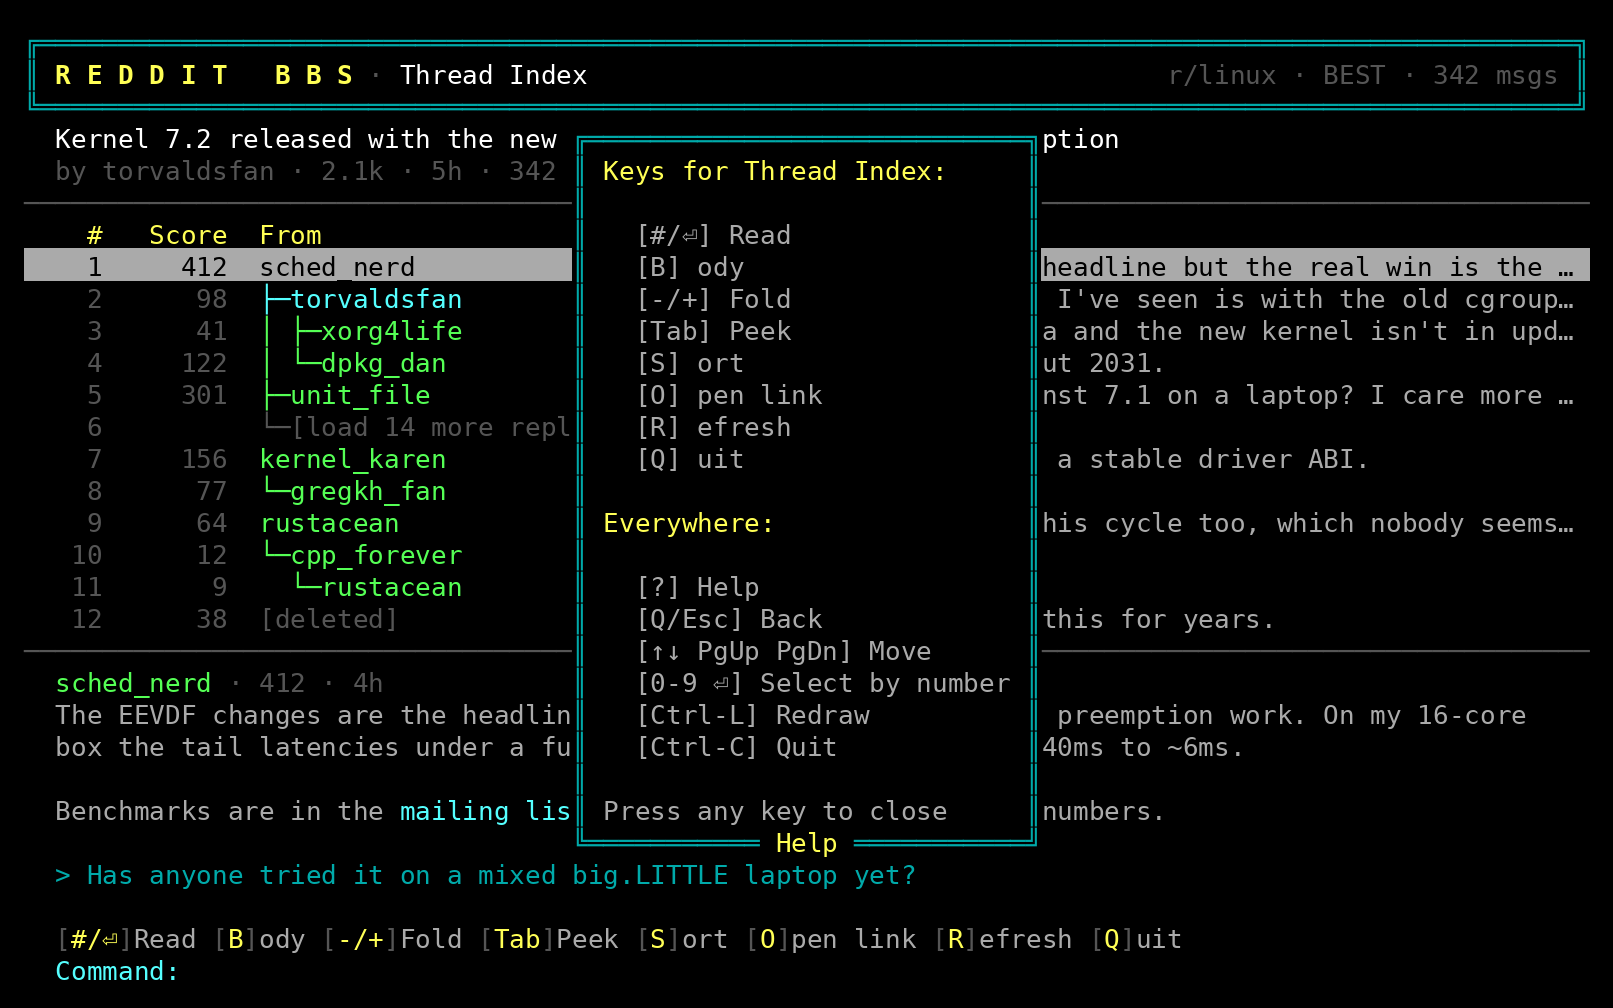
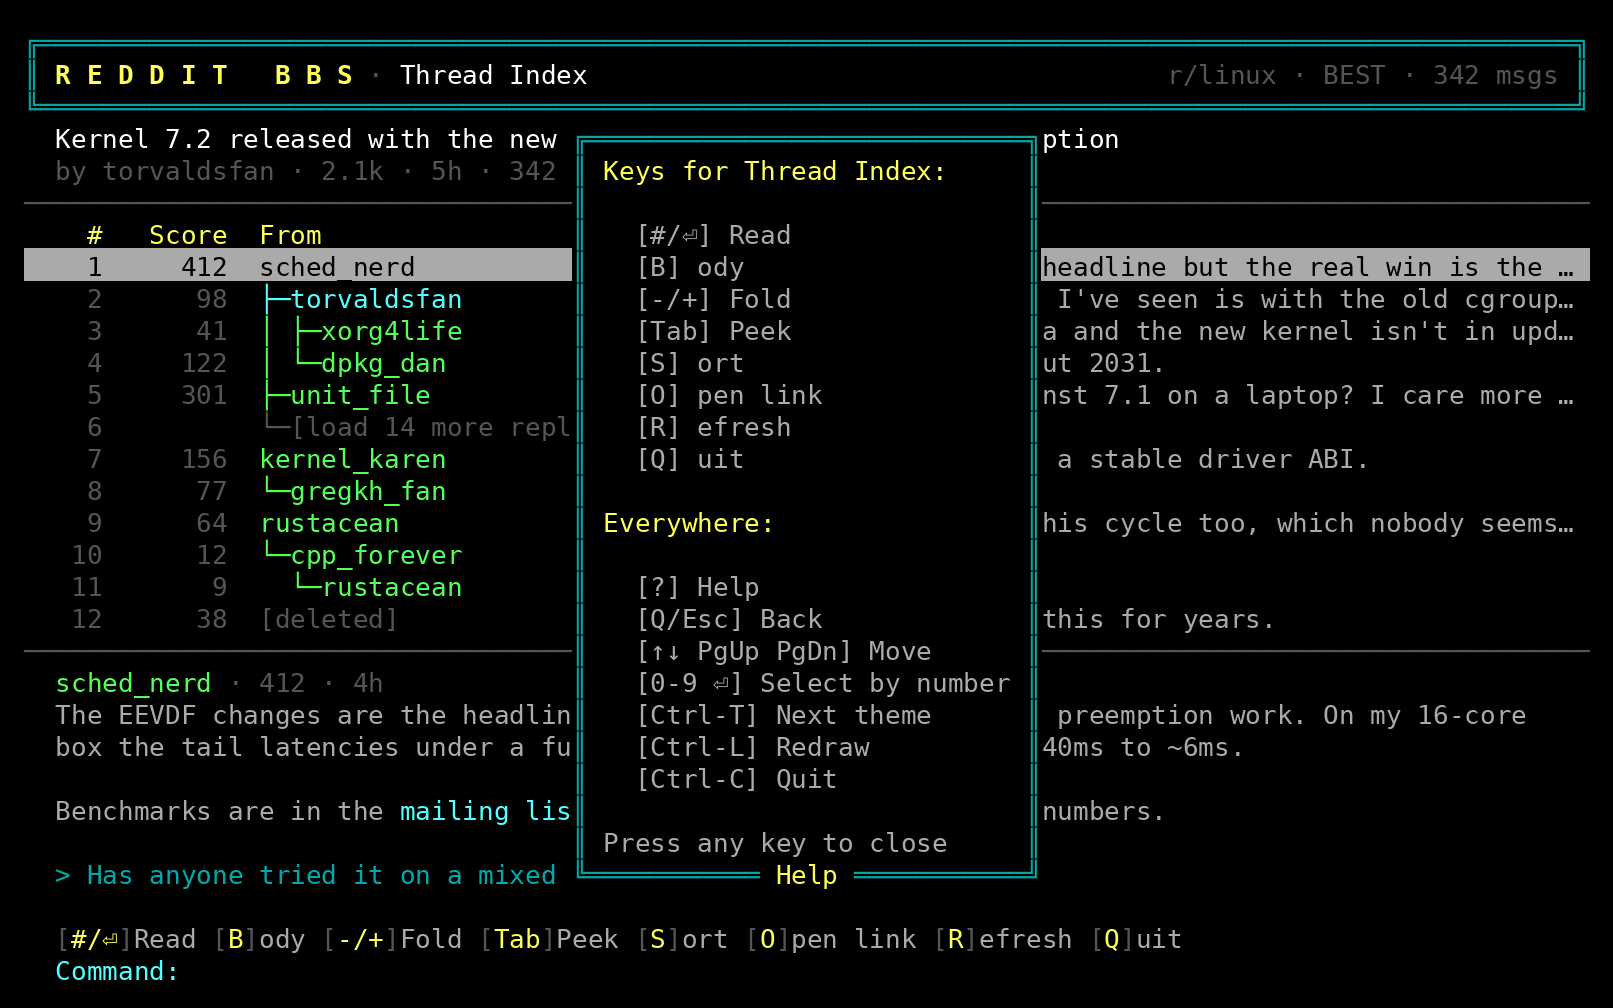
Capture each theme in the screenshots and document theming in the README

Changed region(s): [[0.341, 0.7073, 0.651, 0.8919]]

diff --git a/internal/ui/screens/mockup_test.go b/internal/ui/screens/mockup_test.go
@@ -14,6 +14,7 @@ import (
 	"github.com/markalexwatson/redditbbs/internal/reddit/redditest"
 	"github.com/markalexwatson/redditbbs/internal/term"
 	"github.com/markalexwatson/redditbbs/internal/textfmt"
+	"github.com/markalexwatson/redditbbs/internal/theme"
 	"github.com/markalexwatson/redditbbs/internal/ui"
 )
 
@@ -75,6 +76,22 @@ func TestRenderMockups(t *testing.T) {
 	press(app, term.R('?'))
 	save("06-help")
 	press(app, term.R(' '))
+
+	// The thread index under every other built-in theme.
+	for _, name := range theme.Names() {
+		if name == "classic" {
+			continue
+		}
+		if err := theme.Set(name); err != nil {
+			t.Fatal(err)
+		}
+		app.Draw()
+		save("theme-" + name)
+	}
+	if err := theme.Set("classic"); err != nil {
+		t.Fatal(err)
+	}
+	app.Draw()
 
 	press(app, term.K(term.KeyEnter))
 	save("07-reader")

diff --git a/README.md b/README.md
@@ -18,6 +18,42 @@ comment index with a peek pane, and a one-message reader. Read-only.
 The screenshots are captured from the program itself on a 100 by 30
 simulated terminal with sample data; `make screenshots` regenerates them.
 
+## Themes
+
+Four themes are built in, all within the 16 ANSI colours so they work in
+any terminal and follow your terminal's own palette. `Ctrl-T` cycles them
+on any screen and remembers the choice.
+
+| `classic` | `blue` |
+| --- | --- |
+| ![classic](docs/screenshots/threadindex.png) | ![blue](docs/screenshots/theme-blue.png) |
+
+| `amber` | `green` |
+| --- | --- |
+| ![amber](docs/screenshots/theme-amber.png) | ![green](docs/screenshots/theme-green.png) |
+
+Pick one in the config, or define your own by overriding roles on top of a
+base theme. Each value is `<colour> [on <colour>] [bold] [reverse]` using
+the ANSI names (`black`, `red`, `green`, `yellow`, `blue`, `magenta`,
+`cyan`, `white`, their `bright` variants, `grey`, or `default`):
+
+```toml
+[display]
+theme = "custom"
+
+[theme]
+base = "classic"
+heading = "bright red"
+cursor = "black on cyan"
+author = "green bold"
+```
+
+Roles: `frame`, `logo`, `heading`, `subject`, `author`, `op`, `mod`, `meta`,
+`body`, `quote`, `code`, `bold`, `link`, `prompt`, `hotkey`, `error`,
+`stub`, `rule`, `cursor`, `sticky`, `nsfw`, `bar` (the fill behind the
+title and hotkey bars). A mistake in the table is reported at startup with
+the key that caused it.
+
 ## Setup
 
 1. Build: `make build` (needs Go 1.27). The binary is `bin/redditbbs`, statically linked.
@@ -41,8 +77,8 @@ saves the last unparseable API response to
 ## Keys
 
 Everywhere: `?` help, `Q` or `Esc` back, arrows and PgUp/PgDn move the
-cursor, type a number and `Enter` to select a row, `Ctrl-L` redraw,
-`Ctrl-C` quit.
+cursor, type a number and `Enter` to select a row, `Ctrl-T` next theme,
+`Ctrl-L` redraw, `Ctrl-C` quit.
 
 | Screen | Keys |
 | --- | --- |
